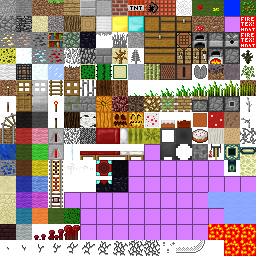
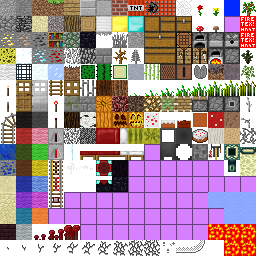
Transparency YUNOWURK?!

diff --git a/src/com/bpermissions/minimap/MiniMapRender.java b/src/com/bpermissions/minimap/MiniMapRender.java
@@ -3,8 +3,13 @@ package com.bpermissions.minimap;
 import java.awt.Color;
 import java.awt.Graphics;
 import java.awt.image.BufferedImage;
+import java.awt.image.BufferedImageOp;
+import java.io.File;
 import java.nio.ByteBuffer;
 import java.util.Map;
+
+import javax.imageio.ImageIO;
+
 import org.spoutcraft.spoutcraftapi.World;
 import org.spoutcraft.spoutcraftapi.World.Environment;
 import org.spoutcraft.spoutcraftapi.entity.ActivePlayer;
@@ -21,7 +26,7 @@ class MiniMapRender extends Thread {
 
 	// Yes, it's the coordinates image!
 	
-	public final Color transparent = new Color(255, 255, 255 ,0);
+	public static final Color transparent = new Color(255, 255, 255 ,0);
 	
 	//public LinkedList<MiniMapLocation> locList = new LinkedList<MiniMapLocation>();
 	
@@ -60,6 +65,23 @@ class MiniMapRender extends Thread {
 			amount ++;
 		else
 			amount--;
+		
+		if(world.getBlockTypeIdAt(x+1, y-1, z) == 0)
+			amount ++;
+		else
+			amount--;
+		if(world.getBlockTypeIdAt(x-1, y-1, z) == 0)
+			amount ++;
+		else
+			amount--;
+		if(world.getBlockTypeIdAt(x, y-1, z+1) == 0)
+			amount ++;
+		else
+			amount--;
+		if(world.getBlockTypeIdAt(x, y-1, z-1) == 0)
+			amount ++;
+		else
+			amount--;
 		return amount;
 	}
 	/**
@@ -74,6 +96,15 @@ class MiniMapRender extends Thread {
 		for (int i = 127; i >= 0; i--) {
 			int id = world.getBlockTypeIdAt(x, i, z);
 			if (id > 0)
+				return i;
+		}
+		return 0;
+	}
+	
+	public int getHighestNonTransparentBlockY(World world, int x, int z) {
+		for (int i = 127; i >= 0; i--) {
+			int id = world.getBlockTypeIdAt(x, i, z);
+			if (id > 0 && !map.isTransparent(id))
 				return i;
 		}
 		return 0;
@@ -217,6 +248,11 @@ class MiniMapRender extends Thread {
 		image = null;
 	}
 	
+	/*
+	 * Pathing has been scrapped for now
+	 * 
+	 * HD minimap is the focus - we should work on transparent blocks
+	 */
 	public void heightMap(World world, ActivePlayer player, int radius, int i, int k) {
 		long start = System.currentTimeMillis();
 		int sStart = MiniMapWidget.scale;
@@ -230,15 +266,17 @@ class MiniMapRender extends Thread {
 		int py = player.getLocation().getBlockY();
 		
 		BufferedImage image = null;
-		if(MiniMapWidget.scale == 0)
+		if(MiniMapWidget.scale <= 0)
 		image = new BufferedImage(radius*2*16, radius*2*16, BufferedImage.TYPE_INT_RGB);
 		else
 		image = new BufferedImage(radius*2, radius*2, BufferedImage.TYPE_INT_RGB);
 		Graphics gr = image.getGraphics();
+		gr.setColor(transparent);
+		
 		for (int x = -radius; x < radius; x++)
 			for (int z = -radius; z < radius; z++) {
 				
-				if(System.currentTimeMillis()-start > 500+MiniMapWidget.scale*4 || MiniMapWidget.scale != sStart) {
+				if(System.currentTimeMillis()-start > 1000+MiniMapWidget.scale*4 || MiniMapWidget.scale != sStart) {
 					gr.dispose();
 					// TODO Add pathing back
 					//writePath(pairs);
@@ -263,12 +301,21 @@ class MiniMapRender extends Thread {
 				
 				y = getHighestBlockY(world, tx, tz);
 				id = world.getBlockTypeIdAt(tx, y, tz);
-				dy = ((y-py) + (y-64));
+				
+				if(map.isTransparent(id)) {
+					int ly = getHighestNonTransparentBlockY(world, tx, tz);
+					for(int m=ly; m<y; m++) {
+					int nd = world.getBlockTypeIdAt(tx, m, tz);
+					BufferedImage tile = map.getTexture(nd);
+					gr.drawImage(tile, (x+radius)*16, (z+radius)*16, null);
+					}
+				}
+				dy = ((y-py)*2 + (y-64));
 				diff = getRelativeShading(world, tx, y, tz)*15;
 				
 				dy = dy+diff+world.getBlockAt(tx, y+1, tz).getLightLevel()*5;
 				
-				if(MiniMapWidget.scale == 0) {
+				if(MiniMapWidget.scale <= 0) {
 				
 				BufferedImage tile = map.getTexture(id);
 				
@@ -319,6 +366,12 @@ class MiniMapRender extends Thread {
 				}
 			}
 		gr.dispose();
+		try {
+			File file = new File("test.png");
+			ImageIO.write(image, "png", file);
+		} catch (Exception e) {
+			
+		}
 		// TODO Add pathing back
 		//writePath(pairs);
 		gr = this.image.getGraphics();

diff --git a/src/com/bpermissions/minimap/TextureMapper.java b/src/com/bpermissions/minimap/TextureMapper.java
@@ -33,6 +33,20 @@ public class TextureMapper {
 		}
 	}
 	
+	public boolean isTransparent(int id) {
+		if(id == 8)
+			return true;
+		if(id == 9)
+			return true;
+		if(id == 18)
+			return true;
+		if(id == 20)
+			return true;
+		if(id == 52)
+			return true;
+		return false;
+	}
+	
 	public TextureMapper() {
 		terrain = loadTerrain();
 		setupPairs();
@@ -47,7 +61,6 @@ public class TextureMapper {
 		// TODO flesh out fully
 		Integer[] st;
 		
-		pairs.put(0, newArray(7, 10));
 		// Stone texture
 		st = newArray(1, 0);
 		pairs.put(1, st);
@@ -58,7 +71,7 @@ public class TextureMapper {
 		pairs.put(69, st);
 		pairs.put(77, st);
 		
-		pairs.put(2, newArray(3, 13));
+		pairs.put(2, newArray(8, 2));
 		pairs.put(3, newArray(2, 0));
 		pairs.put(4, newArray(0, 1));
 		// Wood texture
@@ -84,7 +97,7 @@ public class TextureMapper {
 		pairs.put(15, newArray(2, 1));
 		pairs.put(16, newArray(2, 2));
 		pairs.put(17, newArray(5, 1));
-		pairs.put(18, newArray(4, 13));
+		pairs.put(18, newArray(4, 3));
 		pairs.put(19, newArray(0, 3));
 		pairs.put(20, newArray(1, 3));
 		pairs.put(21, newArray(0, 10));
@@ -100,7 +113,7 @@ public class TextureMapper {
 		
 		pairs.put(29, newArray(10, 6));
 		pairs.put(30, newArray(11, 0));
-		pairs.put(31, newArray(3, 13));
+		pairs.put(31, newArray(8, 2));
 		pairs.put(32, newArray(7, 3));
 		pairs.put(33, newArray(11, 6));
 		pairs.put(34, newArray(11, 6));
@@ -177,7 +190,10 @@ public class TextureMapper {
 			return colors.get(id);
 		
 		BufferedImage img = new BufferedImage(1, 1, BufferedImage.TYPE_INT_ARGB);
-		img.getGraphics().drawImage(getTexture(id), 0, 0, 1, 1, null);
+		Graphics gr = img.getGraphics();
+		gr.setColor(MiniMapRender.transparent);
+		gr.drawImage(getTexture(id), 0, 0, 1, 1, null);
+		gr.dispose();
 		Color color = new Color(img.getRGB(0, 0));
 		colors.put(id, color);
 		return color;
@@ -190,10 +206,23 @@ public class TextureMapper {
 		int x1 = x0+16;
 		int y1 = y0+16;
 		BufferedImage img = new BufferedImage(16, 16, BufferedImage.TYPE_INT_ARGB);
+		
+		if(id == 0 || id == 20)
+			return img;
+		
 		Graphics gr = img.getGraphics();
+		gr.setColor(MiniMapRender.transparent);
 		gr.drawImage(terrain, 0, 0, 16, 16, x0, y0, x1, y1, null);
 		gr.dispose();
-		
+		if(id == 2 || id == 18 || id ==31) {
+		for(int x=0; x<16; x++)
+			for(int y=0; y<16; y++) {
+			Color color = new Color(img.getRGB(x, y));
+			color = new Color(0, color.getGreen(), 0, color.getAlpha());
+			img.setRGB(x, y, color.getRGB());
+			color = null;
+			}
+		}
 		return img;
 	}
 	

diff --git a/src/com/bpermissions/minimap/MiniMapWidget.java b/src/com/bpermissions/minimap/MiniMapWidget.java
@@ -46,15 +46,18 @@ public class MiniMapWidget extends GenericWidget {
 			if(keyDown == false) {
 				if(scale == 0) {
 				scale = 64;
-				getParent().getClient().getActivePlayer().sendMessage(ChatColor.BLUE+"** ZOOM LEVEL 1");
+				getParent().getClient().getActivePlayer().sendMessage(ChatColor.BLUE+"** ZOOM LEVEL 2");
 				}
 				else if(scale == 64) {
 				scale = 128;
-				getParent().getClient().getActivePlayer().sendMessage(ChatColor.BLUE+"** ZOOM LEVEL 2");
+				getParent().getClient().getActivePlayer().sendMessage(ChatColor.BLUE+"** ZOOM LEVEL 3");
 				}
 				else if(scale == 128) {
-				scale = 0;
+				scale = -24;
 				getParent().getClient().getActivePlayer().sendMessage(ChatColor.BLUE+"** ZOOM LEVEL 0");
+				} else if(scale == -24) {
+				scale = 0;
+				getParent().getClient().getActivePlayer().sendMessage(ChatColor.BLUE+"** ZOOM LEVEL 1");
 				}
 			keyDown = true;
 			}

diff --git a/src/com/bpermissions/minimap/TextureUtils.java b/src/com/bpermissions/minimap/TextureUtils.java
@@ -2,9 +2,13 @@ package com.bpermissions.minimap;
 
 import java.awt.Color;
 import java.awt.Graphics;
+import java.awt.RenderingHints;
 import java.awt.Transparency;
 import java.awt.color.ColorSpace;
+import java.awt.geom.Point2D;
+import java.awt.geom.Rectangle2D;
 import java.awt.image.BufferedImage;
+import java.awt.image.BufferedImageOp;
 import java.awt.image.ColorModel;
 import java.awt.image.ComponentColorModel;
 import java.awt.image.DataBuffer;
